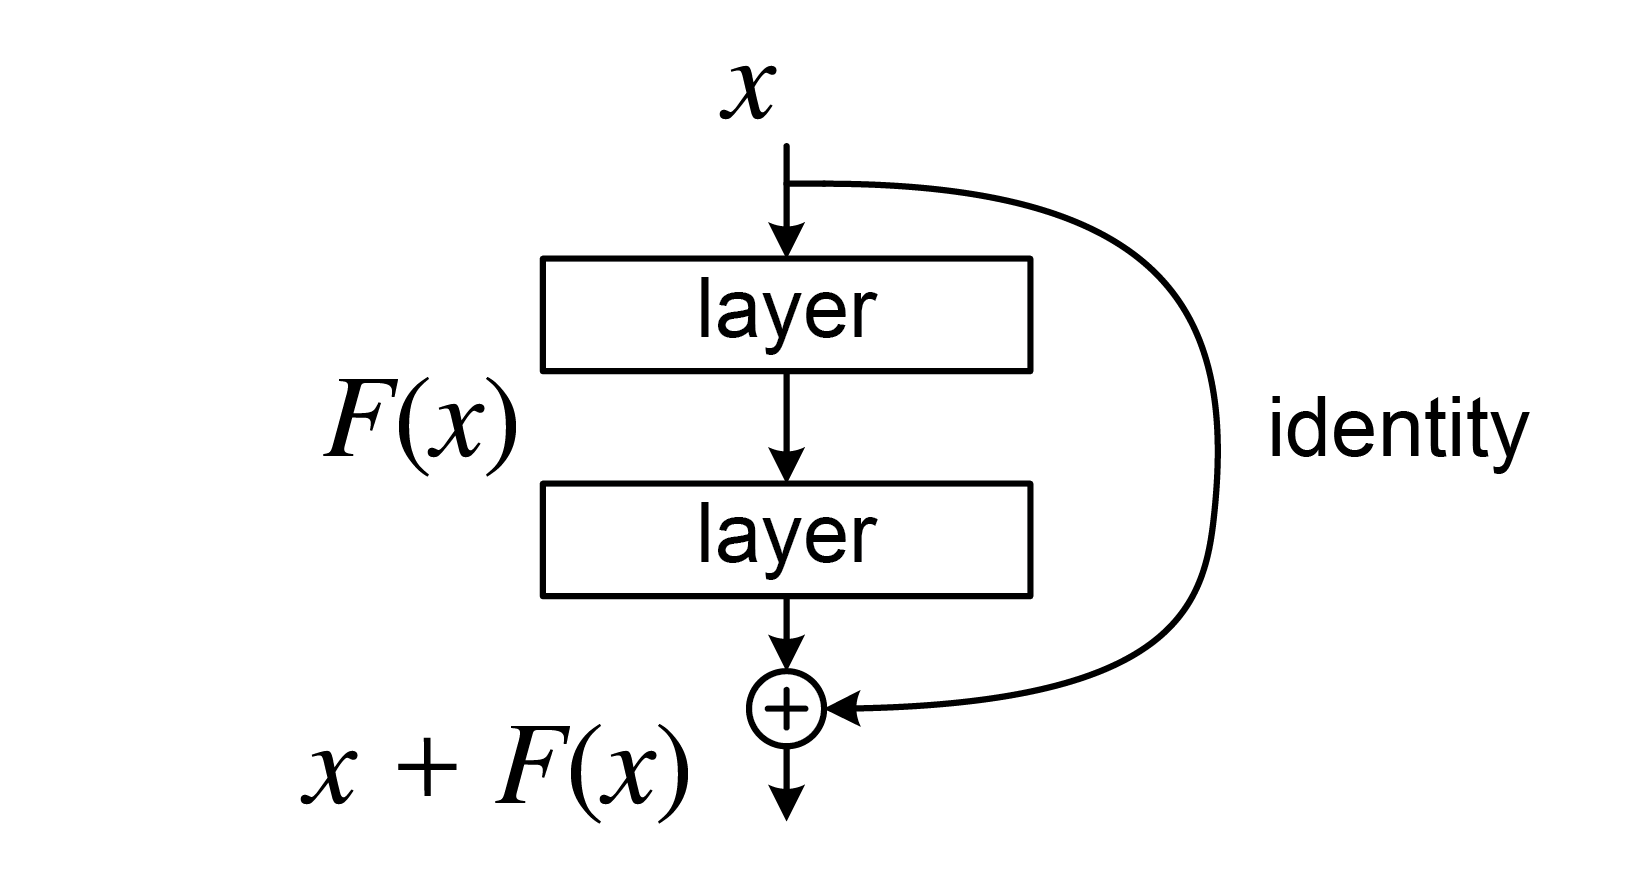
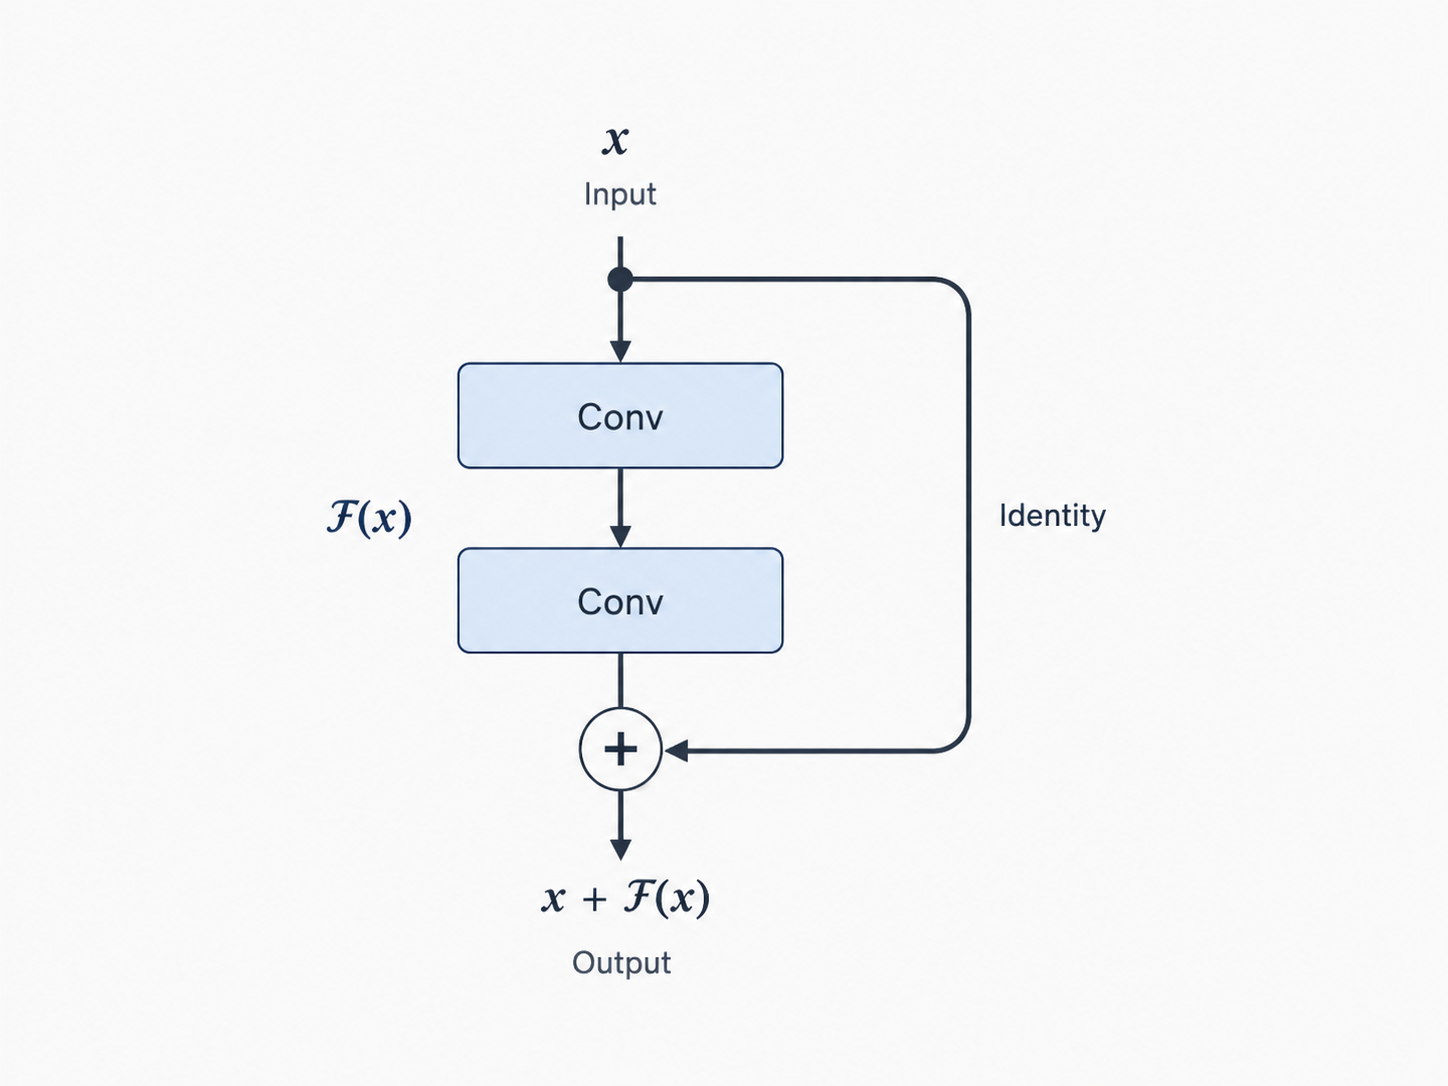
updated project imgs

diff --git a/projects.html b/projects.html
@@ -79,7 +79,7 @@
           <h3 class="plist__title">F1 DNF Analysis</h3>
           <p class="plist__desc">Analysis and modelling of Did Not Finish outcomes in Formula 1 using historical race data. Tested SVM, Random Forest, Logistic Regression, and Neural Nets. Group project for MECENG278 at UC Berkeley.</p>
         </div>
-        <a class="plist__link" href="#" target="_blank" rel="noopener">GitHub →</a>
+        <a class="plist__link" href="https://github.com/NilsHLund/f1-dnf-analysis" target="_blank" rel="noopener">GitHub →</a>
       </li>
       <li class="plist__row">
         <span class="plist__num">05</span>
@@ -113,7 +113,7 @@
             <span class="projects-meta-label">Work</span>
             <div class="projects-counter">
               <span class="projects-num">01</span>
-              <span class="projects-of">/ 06</span>
+              <span class="projects-of">/ 07</span>
             </div>
           </div>
 
@@ -146,7 +146,7 @@
               <p class="project-info__tags">Python · ML · Data Analysis</p>
               <h2 class="project-info__title">F1 DNF Analysis</h2>
               <p class="project-info__desc">Analysis and modelling of Did Not Finish outcomes in Formula 1 using historical race data. Tested SVM, Random Forest, Logistic Regression, and Neural Nets. Group project for MECENG278 at UC Berkeley.</p>
-              <a class="project-info__link" href="#" target="_blank" rel="noopener">View on GitHub →</a>
+              <a class="project-info__link" href="https://github.com/NilsHLund/f1-dnf-analysis" target="_blank" rel="noopener">View on GitHub →</a>
             </div>
 
             <div class="project-info" data-index="4">
@@ -161,6 +161,13 @@
               <h2 class="project-info__title">PID-controller</h2>
               <p class="project-info__desc">JAX-based controller project comparing a classical PID-controller against a Neural Net controller across three plants: Bathtub, Thermostat, and Cournot market competition.</p>
               <a class="project-info__link" href="https://github.com/torsteinhf/pidcontroller" target="_blank" rel="noopener">View on GitHub →</a>
+            </div>
+
+            <div class="project-info" data-index="6">
+              <p class="project-info__tags">Endurance · Team Dynamics · Performance Under Pressure</p>
+              <h2 class="project-info__title">Beer Mile</h2>
+              <p class="project-info__desc">A two-year longitudinal study in human resilience and determination. Team Lynrask's consecutive Beer Mile campaigns (2025–2026) demonstrate consistent improvement across key performance metrics and an unconditional commitment to crossing the finish line.</p>
+              <a class="project-info__link" href="https://www.instagram.com/teamlynrask/" aria-label="Classified">View results →</a>
             </div>
 
           </div>
@@ -192,16 +199,22 @@
             </div>
           </div>
 
-          <!-- 02 Medical — 3 images: large MRI left, two arch diagrams stacked right -->
+          <!-- 02 Medical — 5 images scattered -->
           <div class="project-images" data-index="1">
             <div class="desk">
-              <div class="desk-card" style="--cx:40%;--cy:50%;--rot:-2deg;--w:52%;--z:3">
-                <img src="imgs/mri_scan.jpg" alt="MRI scan">
+              <div class="desk-card" style="--cx:42%;--cy:47%;--rot:-2deg;--w:50%;--z:5">
+                <img src="imgs/mri_scan.png" alt="MRI scan">
               </div>
-              <div class="desk-card" style="--cx:70%;--cy:34%;--rot:7deg;--w:44%;--z:2">
-                <img src="imgs/densenet.avif" alt="DenseNet architecture">
+              <div class="desk-card" style="--cx:73%;--cy:30%;--rot:7deg;--w:42%;--z:4">
+                <img src="imgs/mri_augmentation.png" alt="MRI data augmentation">
               </div>
-              <div class="desk-card" style="--cx:68%;--cy:67%;--rot:-6deg;--w:42%;--z:1">
+              <div class="desk-card" style="--cx:71%;--cy:66%;--rot:-5deg;--w:42%;--z:3">
+                <img src="imgs/mri_results.png" alt="MRI model results">
+              </div>
+              <div class="desk-card" style="--cx:21%;--cy:30%;--rot:-8deg;--w:38%;--z:2">
+                <img src="imgs/densenet.png" alt="DenseNet architecture">
+              </div>
+              <div class="desk-card" style="--cx:22%;--cy:68%;--rot:5deg;--w:36%;--z:1">
                 <img src="imgs/resnet.png" alt="ResNet architecture">
               </div>
             </div>
@@ -222,8 +235,11 @@
           <!-- 04 F1 DNF — 1 image -->
           <div class="project-images" data-index="3">
             <div class="desk">
-              <div class="desk-card" style="--cx:50%;--cy:50%;--rot:-1.5deg;--w:72%;--z:1">
+              <div class="desk-card" style="--cx:62%;--cy:48%;--rot:-3deg;--w:64%;--z:2">
                 <img src="imgs/f1_dnf_report_intro.png" alt="F1 DNF analysis report">
+              </div>
+              <div class="desk-card" style="--cx:43%;--cy:58%;--rot:5deg;--w:45%;--z:1">
+                <img src="imgs/berkeley.jpg" alt="Berkeley image">
               </div>
             </div>
           </div>
@@ -237,6 +253,9 @@
               <div class="desk-card" style="--cx:64%;--cy:61%;--rot:6deg;--w:52%;--z:1">
                 <img src="imgs/airport_db_cli.png" alt="Airport DB CLI interface">
               </div>
+              <div class="desk-card" style="--cx:70%;--cy:35%;--rot:2deg;--w:34%;--z:0">
+                <img src="imgs/trd.jpg" alt="Trondheim img">
+              </div>
             </div>
           </div>
 
@@ -246,8 +265,26 @@
               <div class="desk-card" style="--cx:42%;--cy:47%;--rot:-3deg;--w:62%;--z:2">
                 <img src="imgs/pid_report_intro.png" alt="PID Controller report">
               </div>
-              <div class="desk-card" style="--cx:65%;--cy:60%;--rot:5deg;--w:54%;--z:1">
+              <div class="desk-card" style="--cx:65%;--cy:68%;--rot:5deg;--w:54%;--z:1">
                 <img src="imgs/pid.png" alt="PID Controller results">
+              </div>
+            </div>
+          </div>
+
+          <!-- 07 Beer Mile — easter egg -->
+          <div class="project-images" data-index="6">
+            <div class="desk">
+              <div class="desk-card" style="--cx:24%;--cy:35%;--rot:4deg;--w:40%;--z:2">
+                <img src="imgs/beer_mile_26_podium.jpg" alt="Beer Mile 2025 podium — Team Lynrask">
+              </div>
+              <div class="desk-card" style="--cx:66%;--cy:60%;--rot:6deg;--w:62%;--z:3">
+                <img src="imgs/beer_mile_26_portrait.JPG" alt="Beer Mile 2025 — Team Lynrask">
+              </div>
+              <div class="desk-card" style="--cx:30%;--cy:75%;--rot:-6deg;--w:38%;--z:1">
+                <img src="imgs/beer_mile_25.png" alt="Beer Mile 2025 — Team Lynrask">
+              </div>
+              <div class="desk-card" style="--cx:73%;--cy:40%;--rot:-2deg;--w:48%;--z:1">
+                <img src="imgs/beer_mile_26.png" alt="Beer Mile 2025 — Team Lynrask">
               </div>
             </div>
           </div>

diff --git a/style.css b/style.css
@@ -729,7 +729,7 @@ body[data-theme="light"] .nav {
 /* ---------------------------------------------
    Projects: full-screen scroll
 --------------------------------------------- */
-.projects-scroll { height: calc(6 * 200vh); }
+.projects-scroll { height: calc(7 * 200vh); }
 
 .projects-stage {
   position: sticky;
